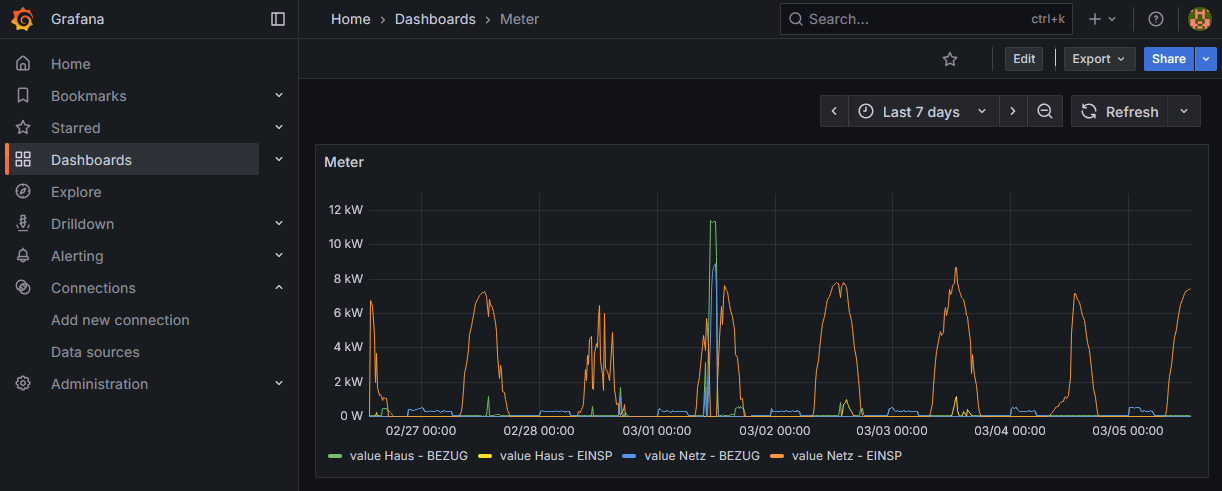
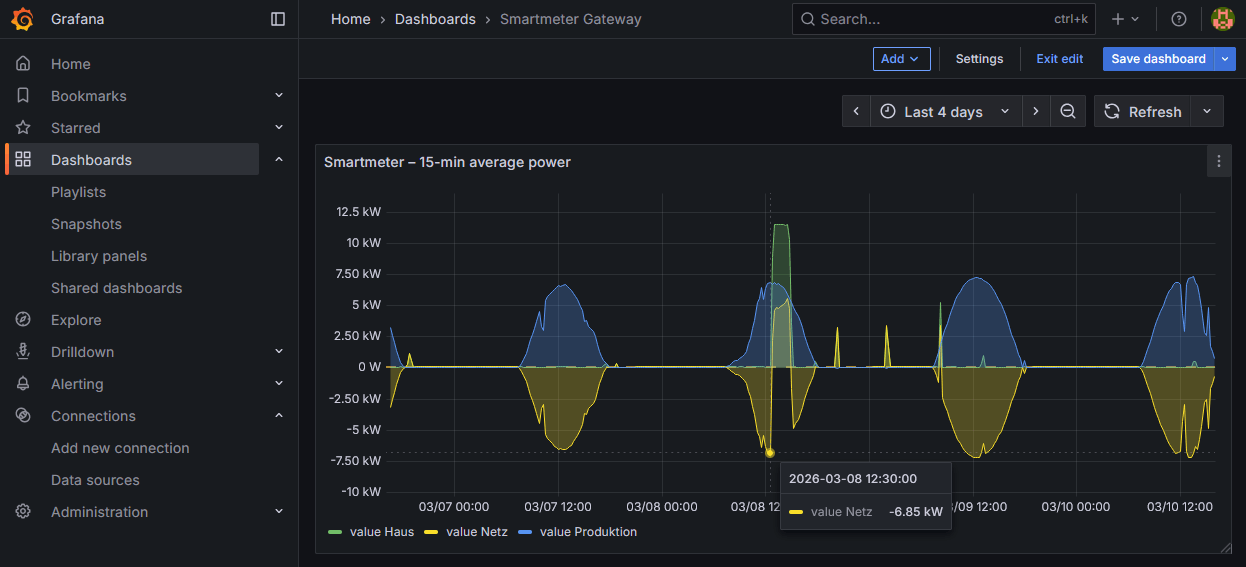
Update README with improved Grafana example and add importable dashboard JSON

diff --git a/README.md b/README.md
@@ -101,23 +101,52 @@ Create database:
 
 ## Grafana example (two-meter cascade)
 
-The following example shows a two-meter cascade (`Netz` and `Haus`).
-It calculates 15-minute power from energy deltas (`* 4`) and uses friendly meter names in the legend.
+The following example shows a two-meter cascade (`Netz` and `Haus`) where a PV system sits between
+the two meters. Each meter's BEZUG and EINSP readings are combined into a single signed value
+(positive = consumption, negative = feed-in), and `Produktion` is derived algebraically from the
+two signed values.
+
+`delta * 4` converts Wh/15 min to average W for the interval.
+
+In Grafana: `Time column = time`, `Metric column = metric`, `Value column = value`, `Unit = W`.  
+Setting **Fill opacity** to `25` for all series gives a clear area chart.
+
+An importable dashboard JSON is available at [`doc/grafana-dashboard.json`](doc/grafana-dashboard.json).
 
 ```sql
+WITH d AS (
+  SELECT
+    time,
+    CASE WHEN meter='1ISK0000000001' THEN 'Netz'
+         WHEN meter='1ISK0000000002' THEN 'Haus'
+         ELSE meter END AS meter,
+    direction,
+    (value - LAG(value) OVER (PARTITION BY meter, direction ORDER BY time)) * 4 AS delta
+  FROM home_readings
+  WHERE "database"='origin'
+    AND direction IN ('EINSP','BEZUG')
+    AND $__timeFilter(time)
+),
+signed AS (
+  SELECT
+    time,
+    meter,
+    SUM(CASE WHEN direction='BEZUG' THEN delta ELSE -delta END) AS value
+  FROM d
+  GROUP BY time, meter
+)
+SELECT time, meter AS metric, value FROM signed
+
+UNION ALL
+
 SELECT
   time,
-  (CASE meter
-     WHEN '1ISK0000000001' THEN 'Netz'
-     WHEN '1ISK0000000002' THEN 'Haus'
-     ELSE meter
-   END) || ' - ' || direction AS metric,
-  GREATEST((value - LAG(value) OVER (PARTITION BY meter, direction ORDER BY time)) * 4, 0) AS value
-FROM home_readings
-WHERE "database" = 'origin'
-  AND direction IN ('EINSP','BEZUG')
-  AND $__timeFilter(time)
-ORDER BY time;
+  'Produktion' AS metric,
+  MAX(CASE WHEN meter='Haus' THEN value END)
+  - MAX(CASE WHEN meter='Netz' THEN value END) AS value
+FROM signed
+GROUP BY time
+ORDER BY time, metric;
 ```
 
 ## Notes
